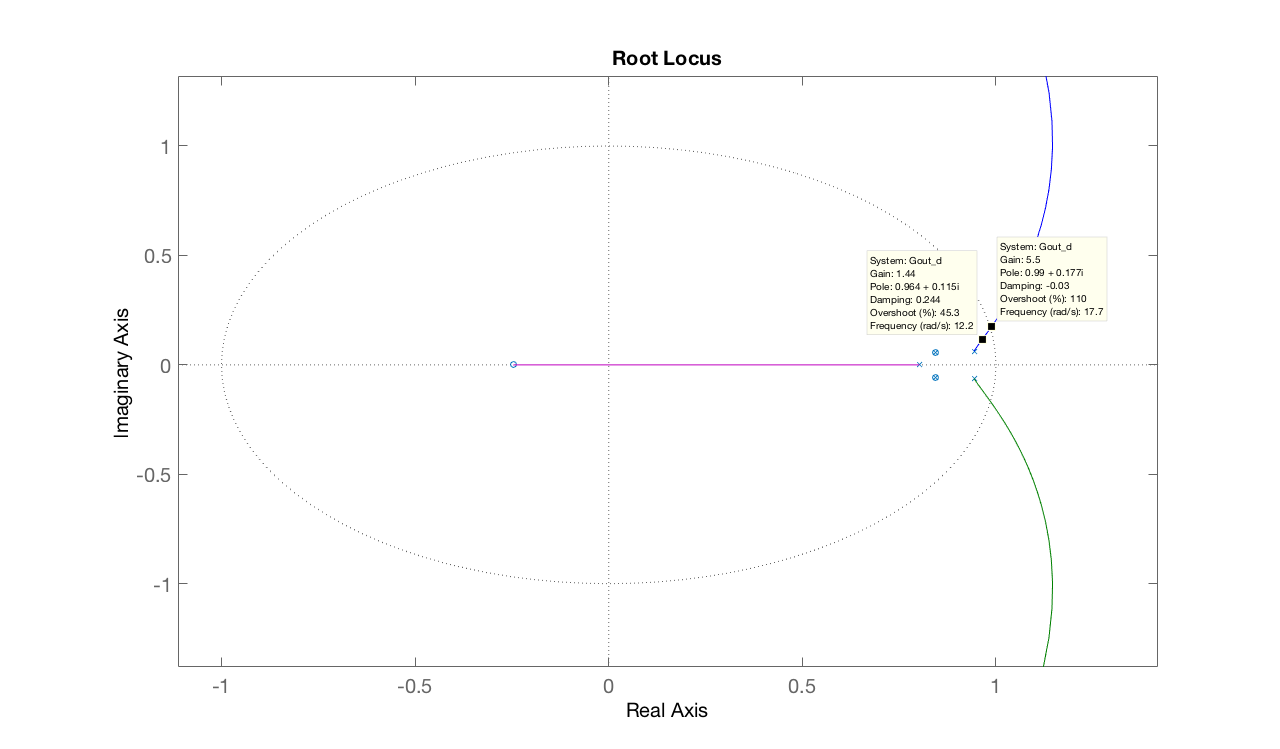
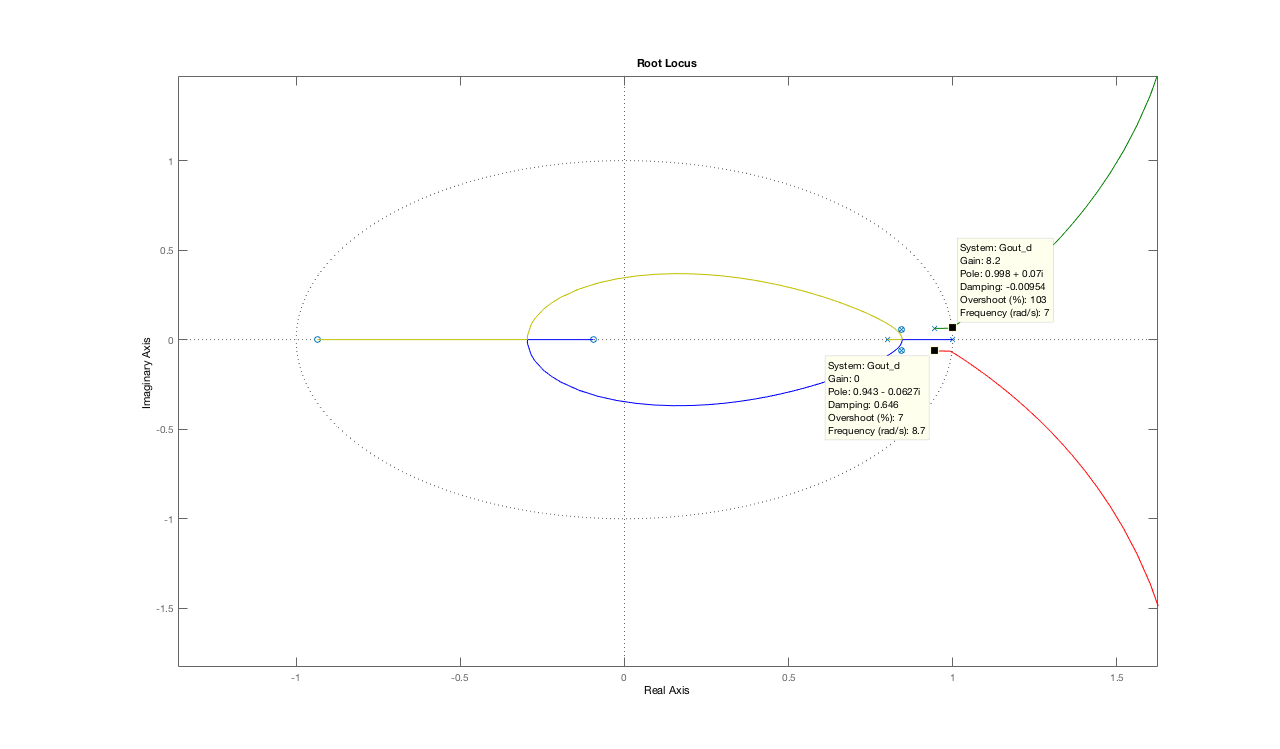
Changes to outer closed loop control.

diff --git a/Rektor_2017/Kontrola/Kontrola.tex b/Rektor_2017/Kontrola/Kontrola.tex
@@ -182,7 +182,7 @@ Modeliran je koncept i odabrana je upravljačka struktura, stoga još preostaje 
 
 \medskip
 
-Određivanje parametara regulatora obavlja se u dva koraka. Prvo se određuje pojačanje unutarnje petlje prema izrazu za prijenosnu funkciju otvorenog kruga sustava (\ref{eq:tf}) koristeći postupak \textit{krivulje mjesta korijena}. Zatim se određuje prijenosna funkcija zatvorenog kruga unutarnje petlje s prijenosnom funkcijom P regulatora ($K_{p}$) te s prijenosnom funkcijom procesa. Prijenosna funkcija zatvorenog  kruga unutarnje petlje jednaka je prijednosnoj funkciji otvorenog kruga vanjske petlje. Za tu se prijenosnu funkciju postupak ponavlja.  
+Određivanje parametara regulatora obavlja se u dva koraka. Prvo se određuje pojačanje unutarnje petlje prema izrazu za prijenosnu funkciju otvorenog kruga sustava (\ref{eq:tf}) koristeći postupak \textit{krivulje mjesta korijena}. Zatim se određuje prijenosna funkcija zatvorenog kruga unutarnje petlje s prijenosnom funkcijom P regulatora ($K_{p}$) te s prijenosnom funkcijom procesa. Prijenosna funkcija zatvorenog kruga uz dodan integrator jednaka je prijenosnoj funkciji otvorenog kruga vanjske petlje. Za tu se prijenosnu funkciju postupak ponavlja.  
 
 \medskip
 
@@ -190,7 +190,7 @@ Za određivanje \textit{krivulje mjesta korijena} unutarnje petlje koristi se pr
 
  \begin{equation}
  \boxed{
- K_{p,in} = 0.111
+ K_{p,in} = 0.1
  } \ .
  \label{eq:Kp_in}
  \end{equation}
@@ -213,14 +213,14 @@ Stabilnost zatvorenog kruga unutarnje petlje može se ispitati odzivom prijenosn
 \end{figure}
 
 
-Analogan postupak primjenjuje se i za vanjsku upravljačku petlju. Prijenosna funkcija otvorenog kruga vanjske petlje jednaka je prijenosnoj funkciji zatvorenog kruga unutarnje petlje:
+Analogan postupak primjenjuje se i za vanjsku upravljačku petlju. Prijenosna funkcija otvorenog kruga vanjske petlje jednaka je prijenosnoj funkciji zatvorenog kruga unutarnje petlje uz dodatak integratora:
 
 \begin{equation}
-G_{o,out} = \frac{K_{p,in}G_{o,in}}{1 + K_{p,in}G_{o,in}} \ ,
+G_{o,out} = \frac{K_{p,in}G_{o,in}}{1 + K_{p,in}G_{o,in}} \frac{1}{s}\ ,
 \label{eq:tf2}
 \end{equation}
 
-gdje je $K_{p,in} = 0.111$, a $G_{o,in}$  je jednak (\ref{eq:tf}) s uvrštenim parametrima:
+gdje je $K_{p,in} = 0.1$, a $G_{o,in}$  je jednak (\ref{eq:tf}) s uvrštenim parametrima:
 
 
 \begin{equation}
@@ -231,7 +231,7 @@ G_{o,in} = \frac{1}{s(6.4875\cdot10^{-5}s^{2} + 0.0022s  + 0.0210)} \ ,
 pa slijedi konačan izraz za $G_{o,out}$:
 
 \begin{equation}
-G_{o,out} = \frac{0.111}{6.4875\cdot10^{-5}s^{3} + 0.0022s^{2}  + 0.0210s + 0.111} \ .
+G_{o,out} = \frac{0.1}{6.4875\cdot10^{-5}s^{3} + 0.0022s^{2}  + 0.0210s + 0.111} \frac{1}{s} \ .
 \label{eq:Ginz}
 \end{equation}
 \medskip
@@ -239,7 +239,7 @@ G_{o,out} = \frac{0.111}{6.4875\cdot10^{-5}s^{3} + 0.0022s^{2}  + 0.0210s + 0.11
 
 \begin{figure}[H]
 	\centering
-	\includegraphics[width=\textwidth]{vanjska_Kp}
+	\includegraphics[width=\textwidth]{vanjska_Kp2}
 	\caption{Odabir pojačanja P regulatora vanjske upravljačke petlje}
 	\label{fig:vanjska_Kp}
 \end{figure}
@@ -248,7 +248,7 @@ G_{o,out} = \frac{0.111}{6.4875\cdot10^{-5}s^{3} + 0.0022s^{2}  + 0.0210s + 0.11
 Konačan iznos pojačanja P regulatora vanjske upravljačke petlje jednak je:
  \begin{equation}
  \boxed{
- K_{p,out} = 1.3
+ K_{p,out} = 2.32
  } \ .
  \label{eq:Kp_out}
  \end{equation}
@@ -263,7 +263,7 @@ G_{z,out} = \frac{K_{p,out}G_{o,out}}{1 + K_{p,out}G_{o,out}} \ .
  Konačna prijenosna funkcija zatvorenog kruga upravljanja jednaka je:
  
  \begin{equation}
- G_{o,z} = \frac{0.1443}{6.4875\cdot10^{-5}s^{3} + 0.0022s^{2}  + 0.0210s + 0.2553} \ .
+ G_{o,z} = \frac{0.232}{6.4875\cdot10^{-5}s^{4} + 0.0022s^{3}  + 0.0210s^{2} + 0.1s + 0.232} \ .
  \label{eq:Goz}
  \end{equation}
 
